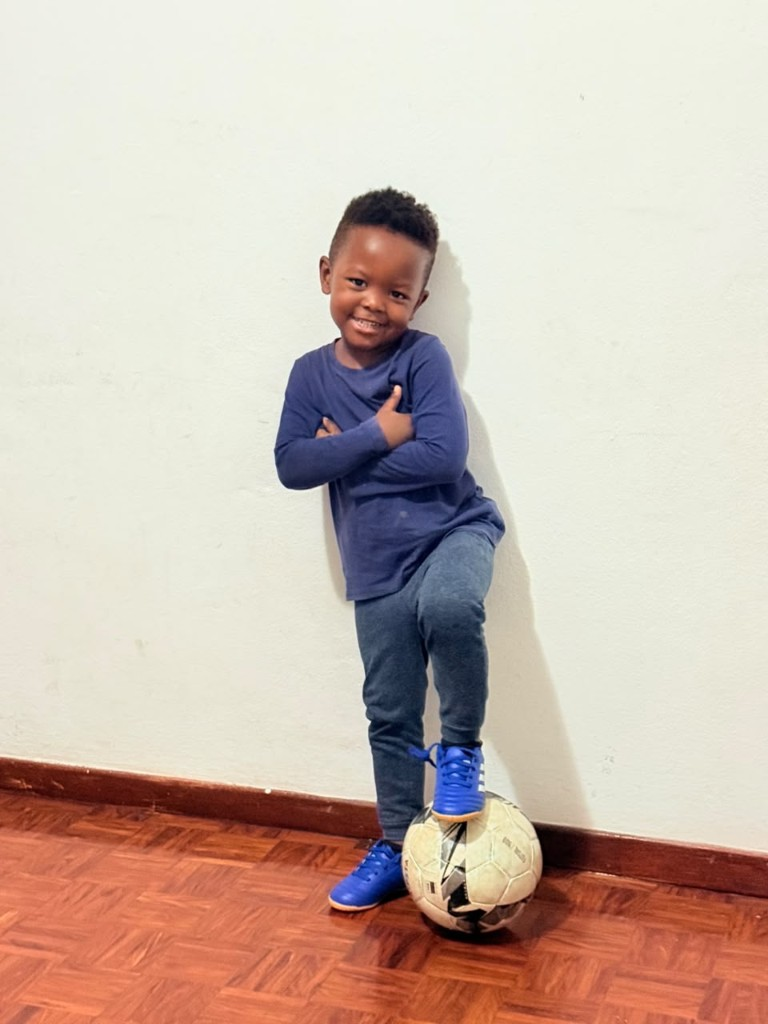
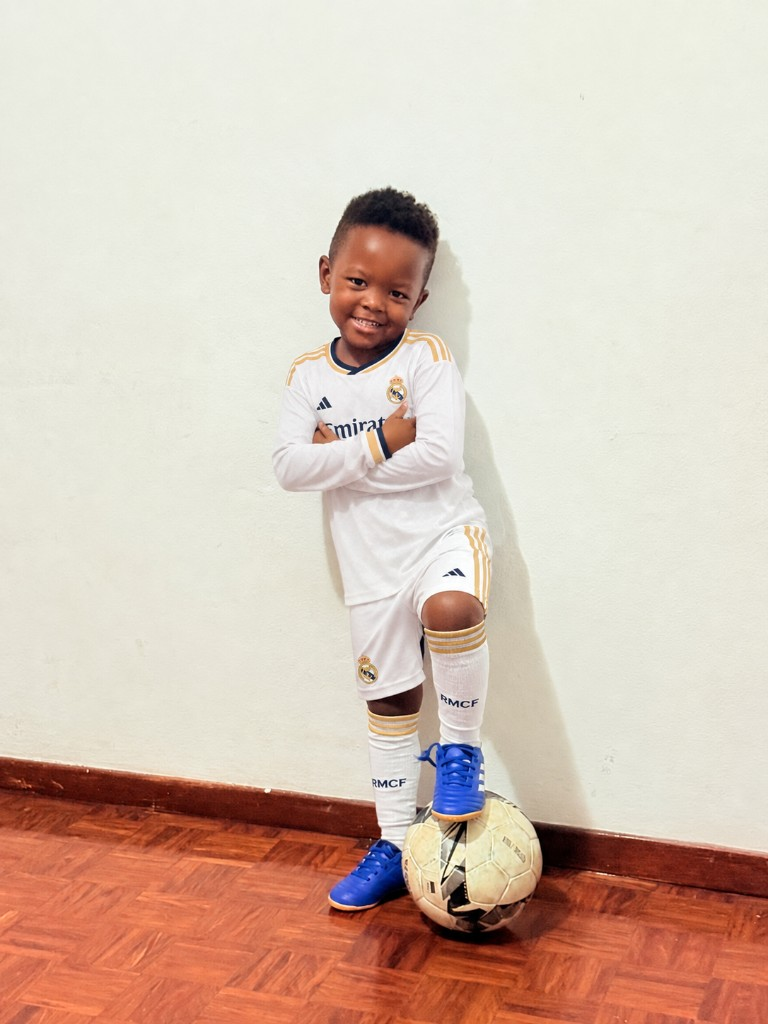
fix(stan): swap Hero foreground photo to Real Madrid kit pose
Replace poster-fg (and closing source) with the new ball pose cutout; keep Hero layout and layering unchanged.

diff --git a/lib/stan/assets-manifest.ts b/lib/stan/assets-manifest.ts
@@ -154,7 +154,7 @@ export const STAN_ASSETS_MANIFEST: StanAssetSpec[] = [
     mobileVariantRequired: false,
     focalPosition: "center bottom",
     status: "generated",
-    notes: "rembg a partir de closing/closing-stan.png",
+    notes: "rembg a partir de closing/closing-stan.png (kit Real Madrid + bola)",
   },
   {
     id: "hero-boots",
